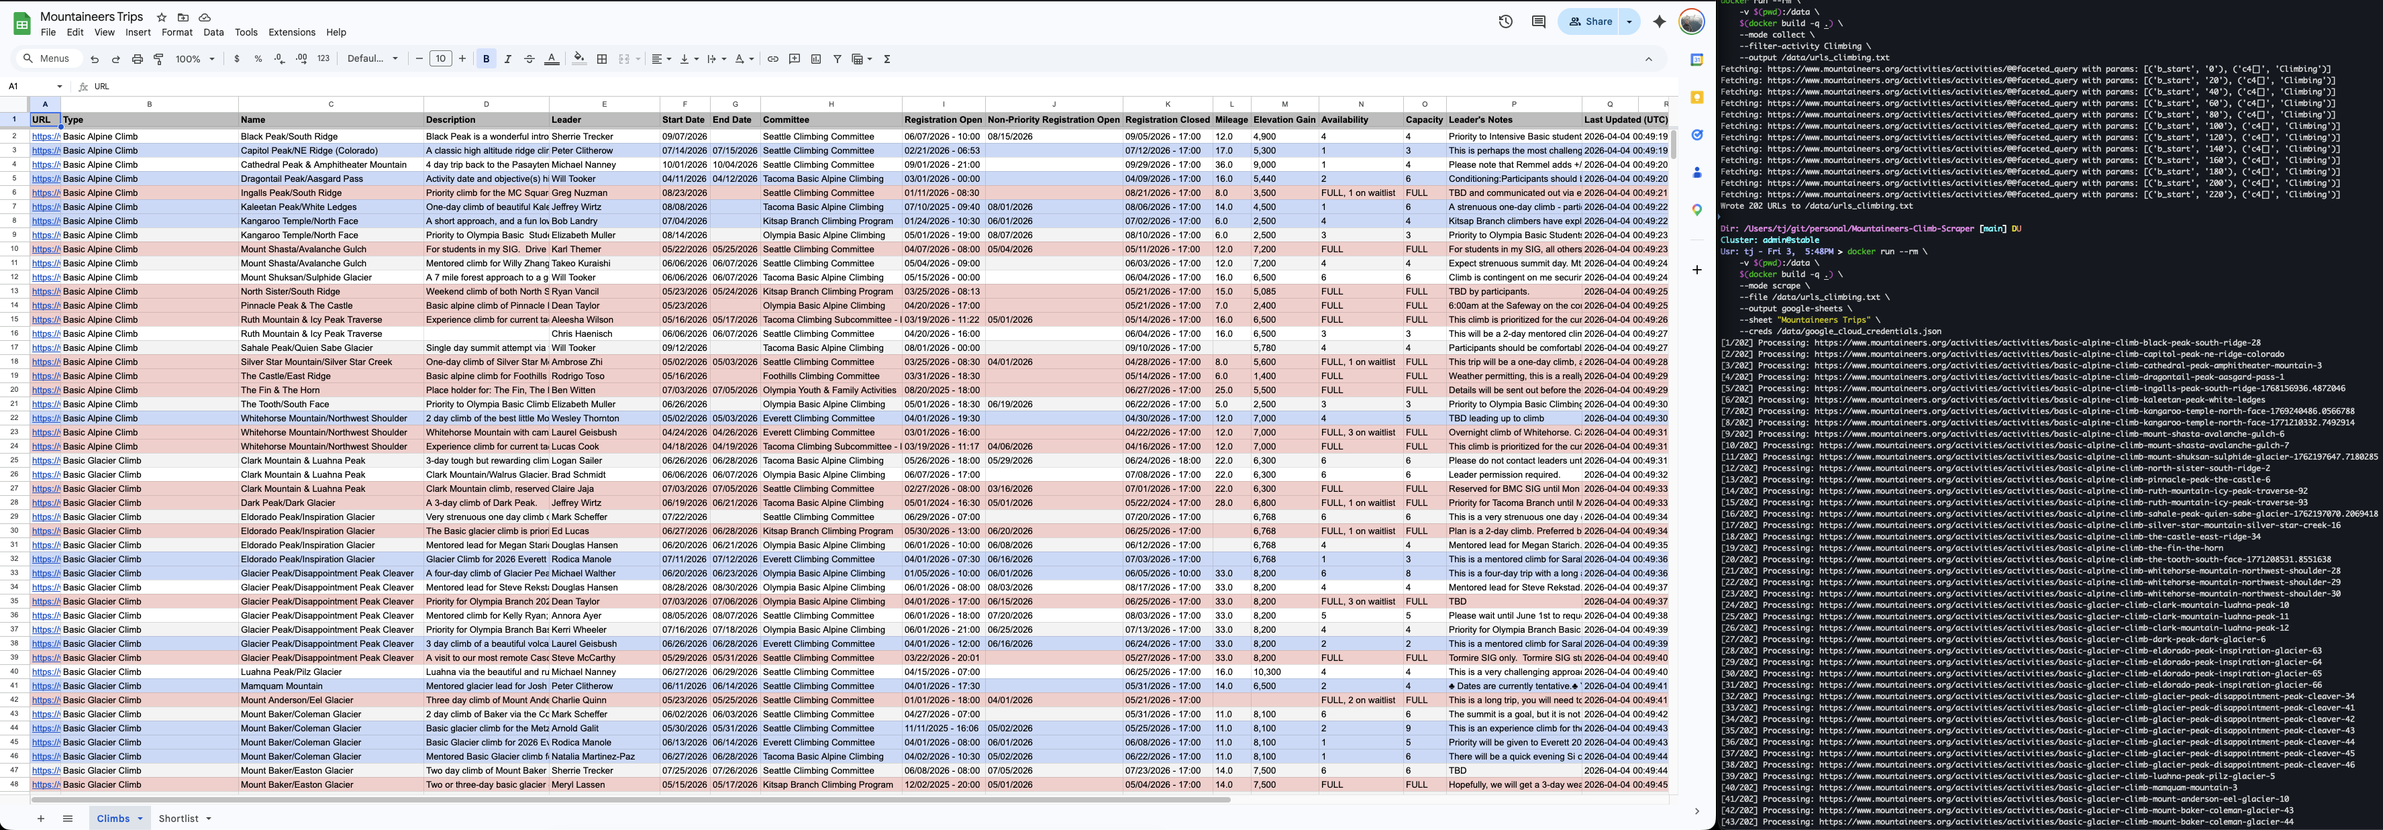
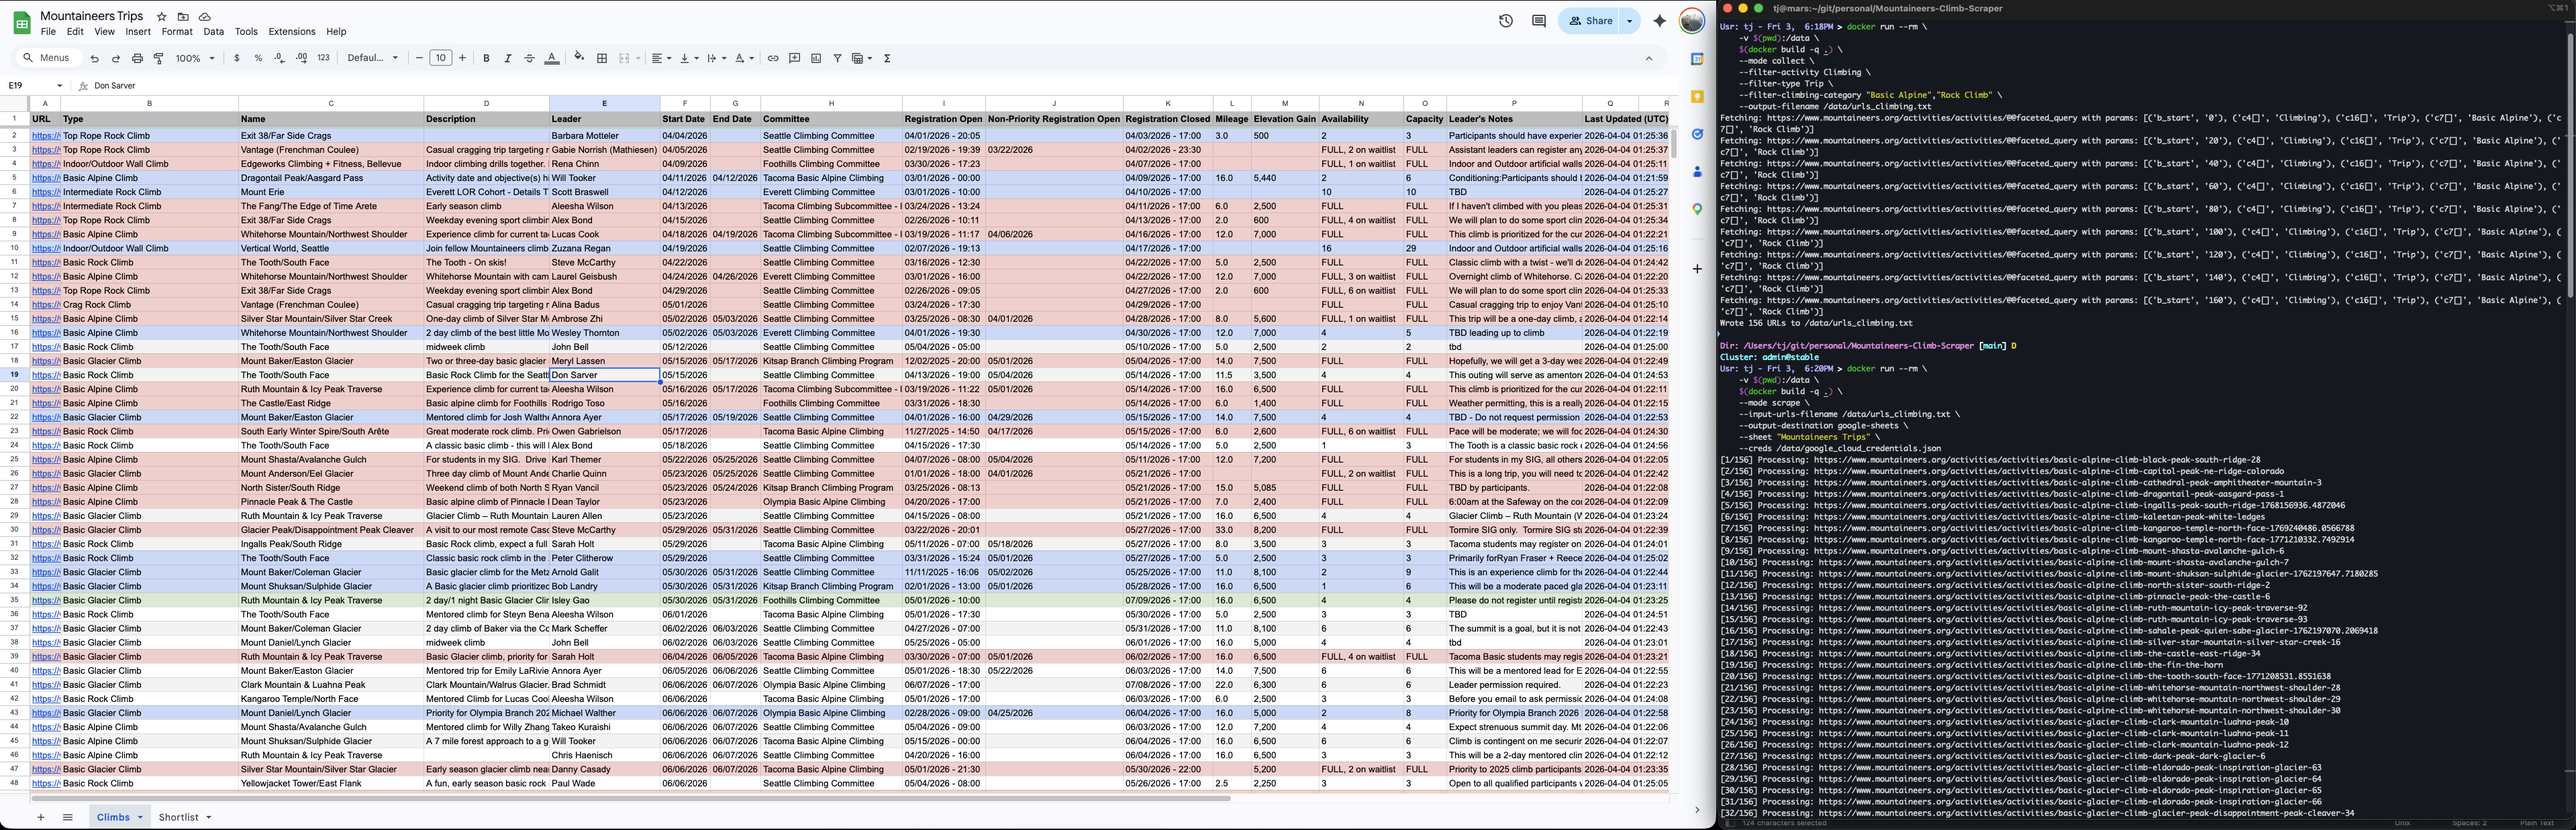
feat: Improve --output args, README

diff --git a/src/mountaineers_activity_scraper/scraper.py b/src/mountaineers_activity_scraper/scraper.py
@@ -55,9 +55,9 @@ def build_row(html, url):
 
 def parse_args():
     parser = argparse.ArgumentParser(description="Scrape trip data and output to Google Sheet and/or CSV")
-    parser.add_argument("--file", required=True, help="Text file with URLs")
-    parser.add_argument("--output", choices=["csv", "google-sheets", "both"], default="csv", help="Output destination: csv (default), google-sheets, or both")
-    parser.add_argument("--output-file-name", default="output.csv", help="CSV output file name (default: output.csv)")
+    parser.add_argument("--output-destination", choices=["csv", "google-sheets", "both"], default="csv", help="Output destination: csv (default), google-sheets, or both")
+    parser.add_argument("--input-urls-filename", required=True, help="Text file with URLs")
+    parser.add_argument("--output-filename", default="output.csv", help="Output file name for output (default: output.csv)")
     parser.add_argument("--sheet", help="Google Sheet name (required if output is google-sheets or both)")
     parser.add_argument("--creds", help="Service account JSON file (required if output is google-sheets or both)")
     parser.add_argument("--delay", type=float, default=1.0, help="Delay between requests (seconds)")
@@ -106,10 +106,10 @@ def upload_to_sheets(sheet_name, creds, headers, rows):
 
 def main():
     args = parse_args()
-    if args.output in ("google-sheets", "both") and (not args.sheet or not args.creds):
+    if args.output_destination in ("google-sheets", "both") and (not args.sheet or not args.creds):
         print("--sheet and --creds are required for Google Sheets output", flush=True)
         return
-    urls = read_urls(args.file)
+    urls = read_urls(args.input_urls_filename)
     if not urls:
         print("No URLs found", flush=True)
         return
@@ -120,9 +120,10 @@ def main():
         "Last Updated (UTC)"
     ]
     rows = collect_rows(urls, HEADERS, delay=args.delay)
-    if args.output in ("csv", "both"):
-        write_csv(args.output_file_name, HEADERS, rows)
-    if args.output in ("google-sheets", "both"):
+    output_path = args.output_filename
+    if args.output_destination in ("csv", "both"):
+        write_csv(output_path, HEADERS, rows)
+    if args.output_destination in ("google-sheets", "both"):
         upload_to_sheets(args.sheet, args.creds, HEADERS, rows)
 
 if __name__ == "__main__":

diff --git a/src/mountaineers_activity_scraper/collect_urls.py b/src/mountaineers_activity_scraper/collect_urls.py
@@ -42,7 +42,7 @@ def parse_args():
     parser = argparse.ArgumentParser(description="Collect Mountaineers activity URLs with flexible filters.")
     for arg, param in FILTER_MAP.items():
         parser.add_argument(f'--{arg.replace("_", "-")}', type=str, help=f"Comma-separated list for {param}")
-    parser.add_argument('--output', type=str, default='urls.txt', help='Output file for URLs (default: urls.txt)')
+    parser.add_argument('--output-filename', type=str, default='urls.txt', help='Output file name for output (default: urls.txt)')
     parser.add_argument('--delay', type=float, default=0.5, help='Delay between requests (seconds)')
     return parser.parse_args()
 
@@ -93,10 +93,11 @@ def main():
         all_links.update(filtered_links)
         b_start += 20
         time.sleep(args.delay)
-    with open(args.output, 'w') as f:
+    output_path = args.output_filename
+    with open(output_path, 'w') as f:
         for link in sorted(all_links):
             f.write(link + '\n')
-    print(f"Wrote {len(all_links)} URLs to {args.output}")
+    print(f"Wrote {len(all_links)} URLs to {output_path}")
 
 if __name__ == "__main__":
     main()

diff --git a/README.md b/README.md
@@ -17,15 +17,16 @@ Mountaineers Activity Scraper can be used to collect and parse activity data fro
 ### 1. Collect Activity URLs
 
 ```bash
-# Collect all `Climbing` activites hosted by the `Seattle` branch. 
+# Collect all `Climbing` `Trip` activities under the `Basic Alpine` and `Rock Climb` categories
 # See Collection Filters below for configuration
 docker run --rm \
     -v $(pwd):/data \
     $(docker build -q .) \
     --mode collect \
-    --filter-branch Seattle \
     --filter-activity Climbing \
-    --output /data/urls_seattle_climbing.txt
+    --filter-type Trip \
+    --filter-climbing-category "Basic Alpine","Rock Climb" \
+    --output-filename /data/urls_climbing.txt
 ```
 
 ### 2. Scrape Activity Data to CSV
@@ -35,9 +36,9 @@ docker run --rm \
     -v $(pwd):/data \
     $(docker build -q .) \
     --mode scrape \
-    --file /data/urls_seattle_climbing.txt \
-    --output csv \
-    --output-file-name /data/output.csv
+    --input-urls-filename /data/urls_climbing.txt \
+    --output-destination csv \
+    --output-filename /data/output_climbing.csv
 ```
 
 ### 3. Scrape Activity Data to Google Sheets
@@ -48,8 +49,8 @@ docker run --rm \
     -v $(pwd):/data \
     $(docker build -q .) \
     --mode scrape \
-    --file /data/urls_seattle_climbing.txt \
-    --output google-sheets \
+    --input-urls-filename /data/urls_climbing.txt \
+    --output-destination google-sheets \
     --sheet "Mountaineers Trips" \
     --creds /data/google_cloud_credentials.json
 ```
@@ -57,14 +58,14 @@ docker run --rm \
 ## Arguments
 
 | Argument              | Required? | Description                                                                                 |
-|-----------------------|-----------|---------------------------------------------------------------------------------------------|
-| --mode                | Yes       | `collect` to gather a list of URLs, `scrape` to parse activity data from a list of URLs                                   |
-| --output              | Yes*      | In `collect` mode: output file path for URLs. In `scrape` mode: output format (`csv`, `google-sheets`, or `both`) |
-| --file                | Yes*      | A file containing a list of URLs to scrape (required for `scrape` mode)                                 |
-| --output-file-name    | No        | Output CSV file name (default: `output.csv`)                                                |                                                    |
-| --sheet               | Yes*      | Google Sheet name (required if `--output google-sheets`)                                    |
-| --creds               | Yes*      | Path to a JSON file containing Google Cloud Service Account credentials (required if `--output google-sheets`)             |
-| --delay               | No        | Delay between requests in seconds (default: 1 second)                                            |
+|-----------------------------|-----------|---------------------------------------------------------------------------------------------|
+| --mode                      | Yes       | `collect` to gather a list of URLs, `scrape` to parse activity data from a list of URLs     |
+| --output-destination        | Yes*      | Output destination: `csv`, `google-sheets`, or `both`                                      |
+| --output-filename           | No        | Output file name (default: `urls.txt` for collect mode, `output.csv` for scrape mode) |
+| --input-urls-filename       | Yes*      | A file containing a list of URLs to scrape (required for `scrape` mode)                     |
+| --sheet                     | Yes*      | Google Sheet name (required if `--output-destination google-sheets`)                                    |
+| --creds                     | Yes*      | Path to a JSON file containing Google Cloud Service Account credentials (required if `--output-destination google-sheets`) |
+| --delay                     | No        | Delay between requests in seconds (default: 1 second)                                       |
 
 ## Collection Filters
 The following filters are available for use with `--mode collect`:
@@ -89,7 +90,7 @@ docker run --rm \
     --filter-activity Climbing,Scrambling \
     --filter-branch Seattle,Foothills \
     --filter-type Trip \
-    --output /data/urls.txt
+    --output-filename urls.txt
 ```
 
 ## Google Sheets Setup
